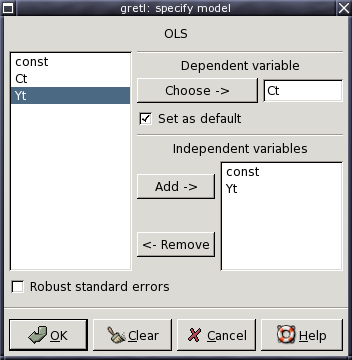
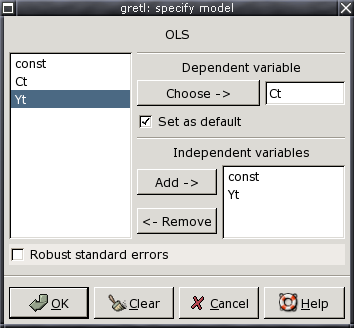
*** empty log message ***

Changed region(s): [[0.0, 0.122, 1.0, 1.0], [0.0, 0.0, 1.0, 0.122]]

diff --git a/gui2/selector.c b/gui2/selector.c
@@ -1097,7 +1097,7 @@ static void selector_init (selector *sr, guint code, const char *title)
     gtk_window_set_title(GTK_WINDOW(sr->dlg), title);
 
     dlgheight *= gui_scale;
-    gtk_widget_set_size_request(sr->dlg, -1, dlgheight); 
+    gtk_window_set_default_size(GTK_WINDOW(sr->dlg), -1, dlgheight); 
 
     g_signal_connect (G_OBJECT(sr->dlg), "destroy", 
 		      G_CALLBACK(destroy_selector), 
